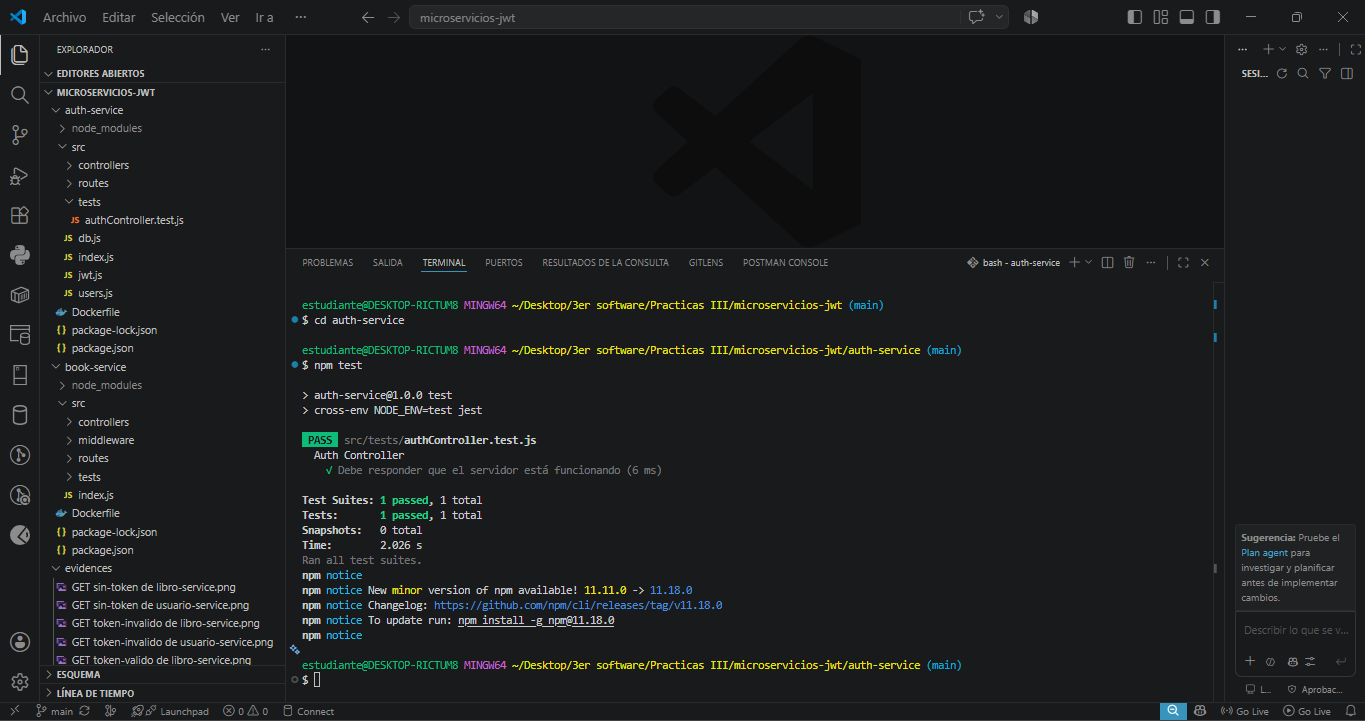
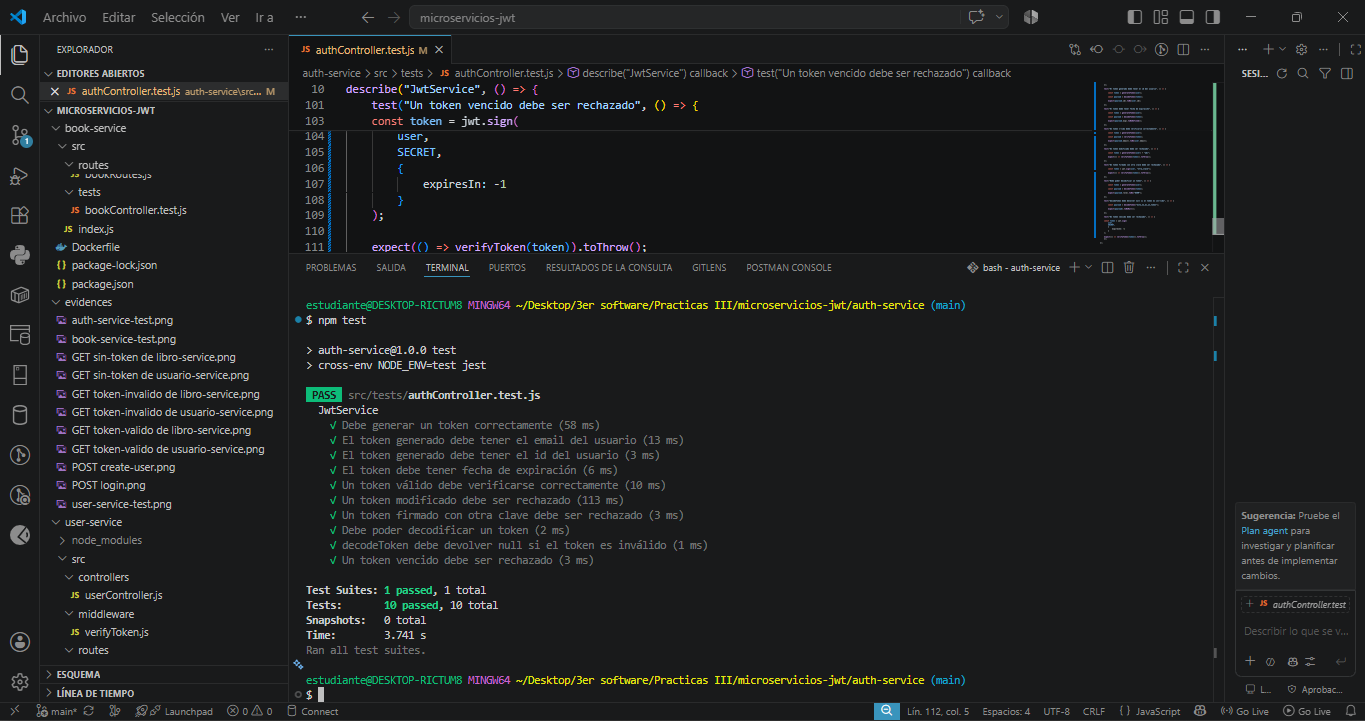
correcciones

diff --git a/auth-service/src/tests/authController.test.js b/auth-service/src/tests/authController.test.js
@@ -1,25 +1,114 @@
-jest.mock("../db", () => ({
-    query: jest.fn()
-}));
+const jwt = require("jsonwebtoken");
 
-const { home } = require("../controllers/authController");
+const {
+    generateToken,
+    verifyToken,
+    decodeToken,
+    SECRET
+} = require("../jwt");
 
-describe("Auth Controller", () => {
+describe("JwtService", () => {
 
-    test("Debe responder que el servidor está funcionando", () => {
+    const user = {
+        id: 1,
+        email: "test@mail.com",
+        role: "USER"
+    };
 
-        const req = {};
+    test("Debe generar un token correctamente", () => {
 
-        const res = {
-            json: jest.fn()
-        };
+        const token = generateToken(user);
 
-        home(req, res);
+        expect(token).toBeDefined();
+        expect(typeof token).toBe("string");
 
-        expect(res.json).toHaveBeenCalledWith({
-            mensaje: "Servidor funcionando"
-        });
+    });
 
+    test("El token generado debe tener el email del usuario", () => {
+
+        const token = generateToken(user);
+
+        const payload = decodeToken(token);
+
+        expect(payload.email).toBe(user.email);
+
+    });
+
+    test("El token generado debe tener el id del usuario", () => {
+
+        const token = generateToken(user);
+
+        const payload = decodeToken(token);
+
+        expect(payload.id).toBe(user.id);
+
+    });
+
+    test("El token debe tener fecha de expiración", () => {
+
+        const token = generateToken(user);
+
+        const payload = decodeToken(token);
+
+        expect(payload.exp).toBeDefined();
+
+    });
+
+    test("Un token válido debe verificarse correctamente", () => {
+
+        const token = generateToken(user);
+
+        const payload = verifyToken(token);
+
+        expect(payload.email).toBe(user.email);
+
+    });
+
+    test("Un token modificado debe ser rechazado", () => {
+
+        const token = generateToken(user) + "abc";
+
+        expect(() => verifyToken(token)).toThrow();
+
+    });
+
+    test("Un token firmado con otra clave debe ser rechazado", () => {
+
+        const token = jwt.sign(user, "otra_clave");
+
+        expect(() => verifyToken(token)).toThrow();
+
+    });
+
+    test("Debe poder decodificar un token", () => {
+
+        const token = generateToken(user);
+
+        const payload = decodeToken(token);
+
+        expect(payload.role).toBe("USER");
+
+    });
+
+    test("decodeToken debe devolver null si el token es inválido", () => {
+
+        const payload = decodeToken("esto_no_es_un_token");
+
+        expect(payload).toBeNull();
+
+    });
+
+    test("Un token vencido debe ser rechazado", () => {
+
+    const token = jwt.sign(
+        user,
+        SECRET,
+        {
+            expiresIn: -1
+        }
+    );
+
+    expect(() => verifyToken(token)).toThrow();
     });
 
 });
